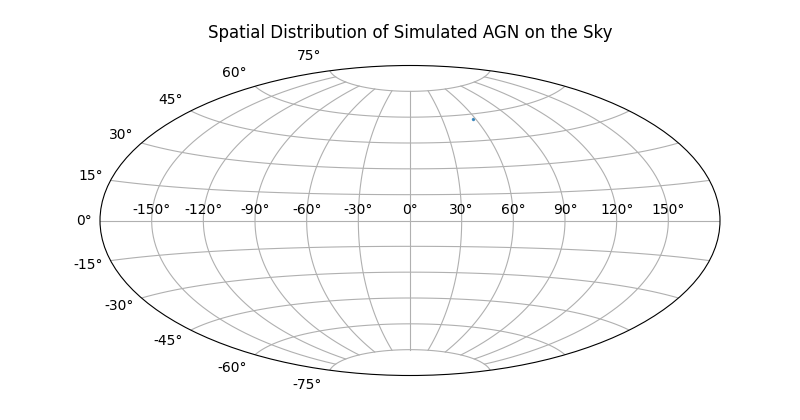
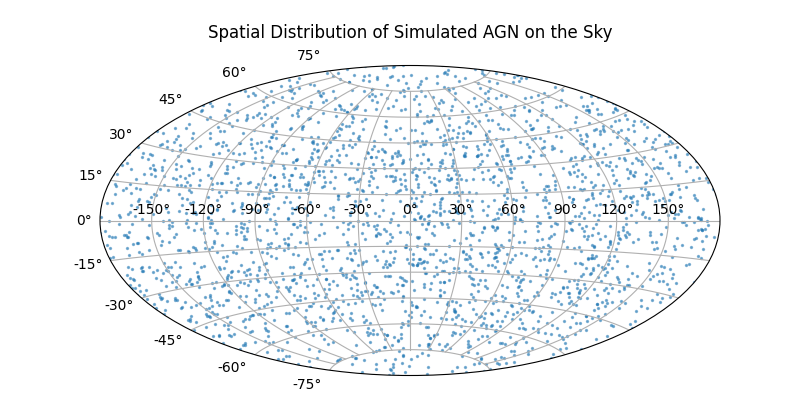
First full version of data simulation section of project.

diff --git a/data_simulation/create_mock_catalog.py b/data_simulation/create_mock_catalog.py
@@ -30,65 +30,10 @@ from math import floor
 # Relative imports
 from analysis.goodness_of_fit import chi_squared_test, kolmogorov_smirnov_test
 from analysis.visualisation import *
-from data_simulation.source_generation.utils import split_normal
 from read_write_functions import catalog_data_preparation
 from source_generation.agn_generation import generate_mock_agn_catalog
 from source_generation.pulsar_generation import generate_mock_pulsar_catalog
 from verification.visualisation import plot_luminosity_function, plot_spatial_distribution
-
-# VISUALISATIONS
-
-
-def normal_func(x, mean, sigma):
-
-    var = sigma**2
-
-    return (1 / np.sqrt(2 * np.pi * var)) * np.exp(-(((x - mean) ** 2) / (2 * var)))
-
-
-def visualising_pulsar_latitude_distributions(sigma_1, sigma_2, x_values, counts):
-
-    # sigma_1 and sigma_2 are the fitted standard distributions of the two overlapping Gaussians of the 4FGL data
-    # x_values and counts are the binned 4FGL data (latitude values and number of sources within that latitude range
-
-    plt.bar(x_values, counts, alpha=0.7, label='4FGL Distribution')
-
-    # Rounded standard deviations - not used except in plots
-    std_1, std_2 = str(round(sigma_1, 2)), str(round(sigma_2, 2))
-
-    latitude_range = np.linspace(-30, 30, 1000)
-
-    plt.plot(latitude_range, split_normal(latitude_range, sigma_1=sigma_1, sigma_2=sigma_2), color='red',
-             label='Mixture Gaussian $\mu=0$, \n $\sigma_1=$' + std_1 + "$, \sigma_2 = $" + std_2)
-
-    plt.plot(latitude_range, normal_func(latitude_range, mean=0, sigma=sigma_1), color='green',
-             linestyle='--', label='Gaussian: $\mu = 0$, $\sigma_1 = ' + std_1 + '$')
-
-    plt.plot(latitude_range, normal_func(latitude_range, mean=0, sigma=sigma_2), color='orange',
-             linestyle='-.', label='Gaussian: $\mu = 0$, $\sigma_2 = ' + std_2 + '$')
-
-    plt.plot(latitude_range, split_normal(latitude_range, sigma_1=1.39, sigma_2=19.2), color='purple',
-             label='Recommended by ID8')
-
-    # Randomly sample pulsar latitudes from distribution created above
-    X1 = stats.Normal(mu=0, sigma=sigma_1)
-    X2 = stats.Normal(mu=0, sigma=sigma_2)
-
-    # CHANGE WEIGHTS HERE TO REFLECT MSP VS YNG
-
-    mixture = stats.Mixture([X1, X2])
-
-    samples = mixture.sample(shape=(10000, 1))
-
-    plt.hist(samples.flatten(), density=True, bins=40, label='Randomly Generated', color='pink', alpha=0.6)
-
-    # Formatting
-    plt.title('Distribution of Pulsar Latitudes')
-    plt.xlabel('Latitude ($\degree$)')
-    plt.ylabel('Source Density')
-    plt.legend()
-
-    plt.show()
 
 
 def analysis(agn_rows, pulsar_rows, directory="./plots/analysis"):
@@ -244,7 +189,7 @@ agn_rows, pulsar_rows, source_detection_threshold, fluxes_4fgl = catalog_data_pr
 
 # Analyse parameters, their distributions, and their correlations
 
-# analysis(agn_rows, pulsar_rows)
+analysis(agn_rows, pulsar_rows)
 
 # Generate simulated AGN sources
 
@@ -255,7 +200,7 @@ agns = generate_mock_agn_catalog(file, agn_rows.copy(), detection_threshold=sour
 pulsars = generate_mock_pulsar_catalog(file, pulsar_rows.copy(), detection_threshold=source_detection_threshold)
 
 # Verify realism and correctness of generated gamma-ray sources
-verification(np.array([[1, 1, 1, 1, 1, 1, 1, 1], [1, 1, 1, 1, 1, 1, 1, 1]]), pulsars)
+verification(agns, pulsars)
 
 print("catalog simulation finished")
 
@@ -273,6 +218,3 @@ print("catalog simulation finished")
 # Scipy Documentation - https://docs.scipy.org/doc/scipy/reference/generated/scipy.integrate.quad.html#scipy.integrate.
 # quad
 # String Formatting - https://stackoverflow.com/questions/12018992/print-combining-strings-and-numbers
-
-# N.B. Useful conversion:
-# flux_densities = agns['LP_Flux_Density'].to(u.ph / (u.cm * u.cm * u.GeV * u.s)).value.filled(np.nan)

diff --git a/data_simulation/read_write_functions.py b/data_simulation/read_write_functions.py
@@ -128,10 +128,6 @@ def catalog_data_preparation(file_name: str):
     # Reformat CLASS1 column - remove empty spaces and make all lower case
     catalog["CLASS1"] = np.asarray([k.decode('utf-8').strip().lower() for k in catalog["CLASS1"].value.filled('-')])
 
-    # Convert pivot energy to GeV - CHECK THIS - MeV or GeV!!
-    # catalog['Pivot_Energy'] = catalog['Pivot_Energy'].to(u.GeV)
-    # catalog["Pivot_Energy"] = catalog["Pivot_Energy"].to(u.MeV)
-
     # Select all rows that describe pulsars
     pulsar_mask = (catalog["CLASS1"] == "psr")
 
